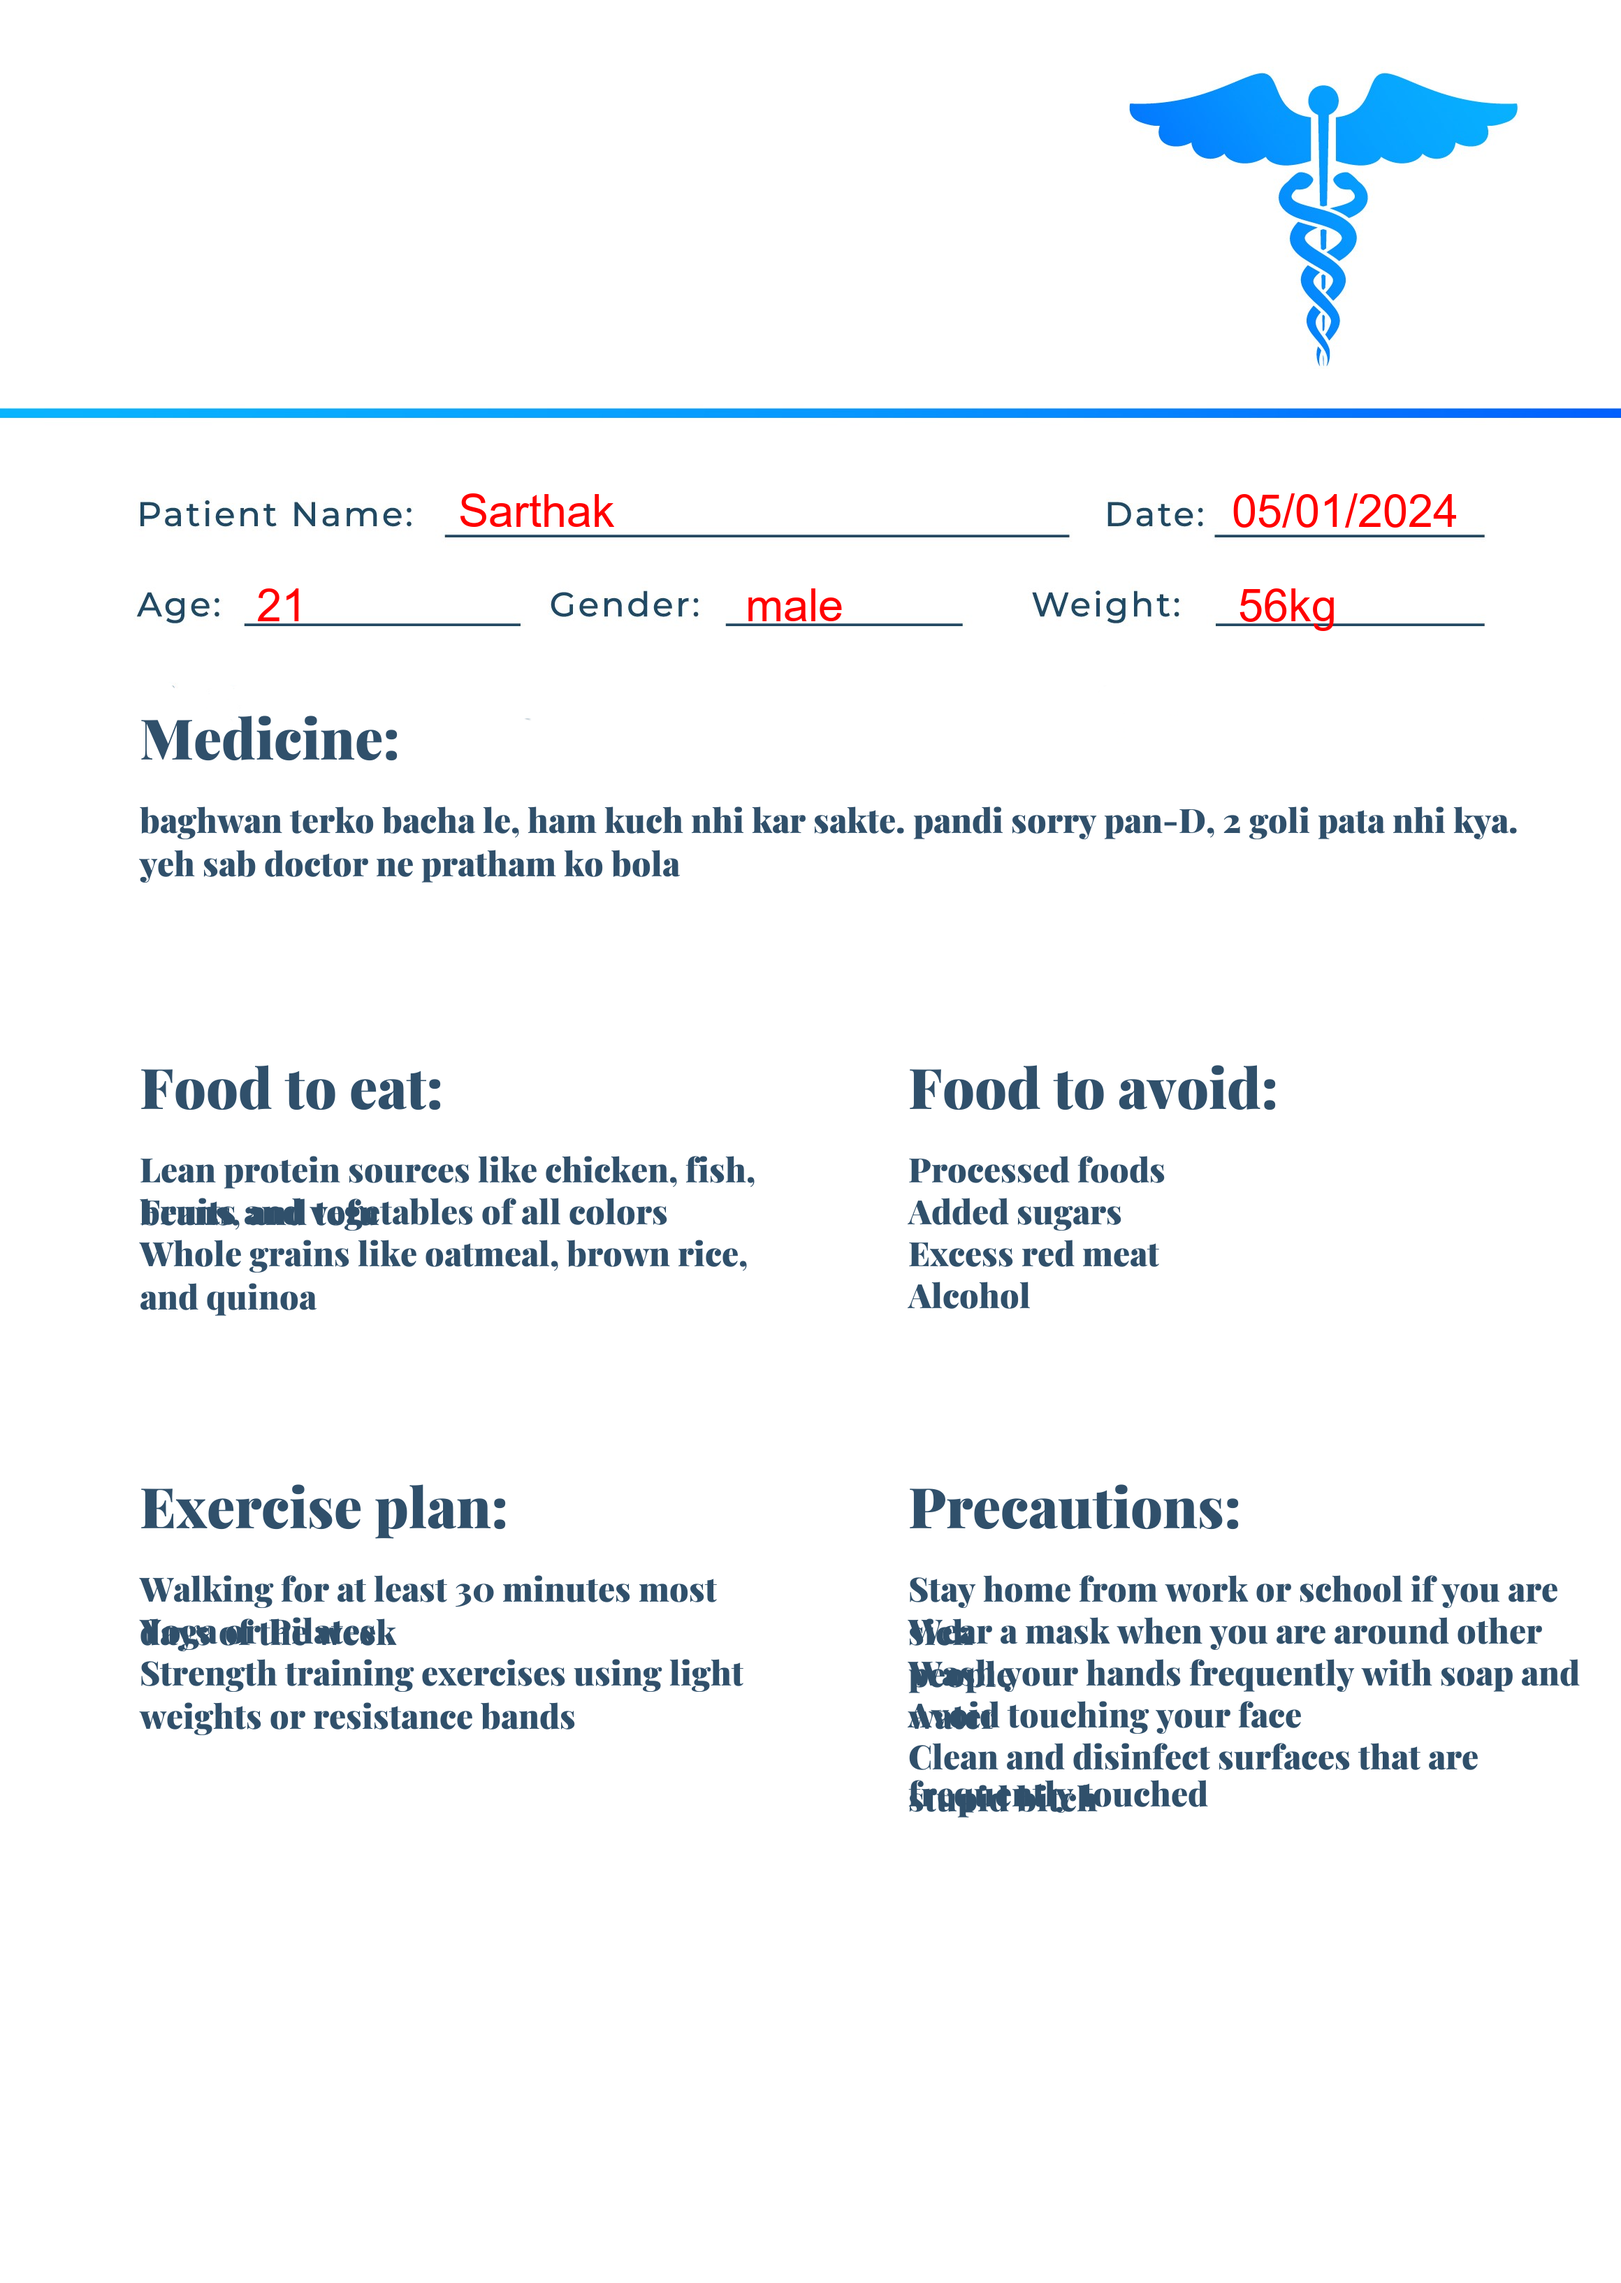
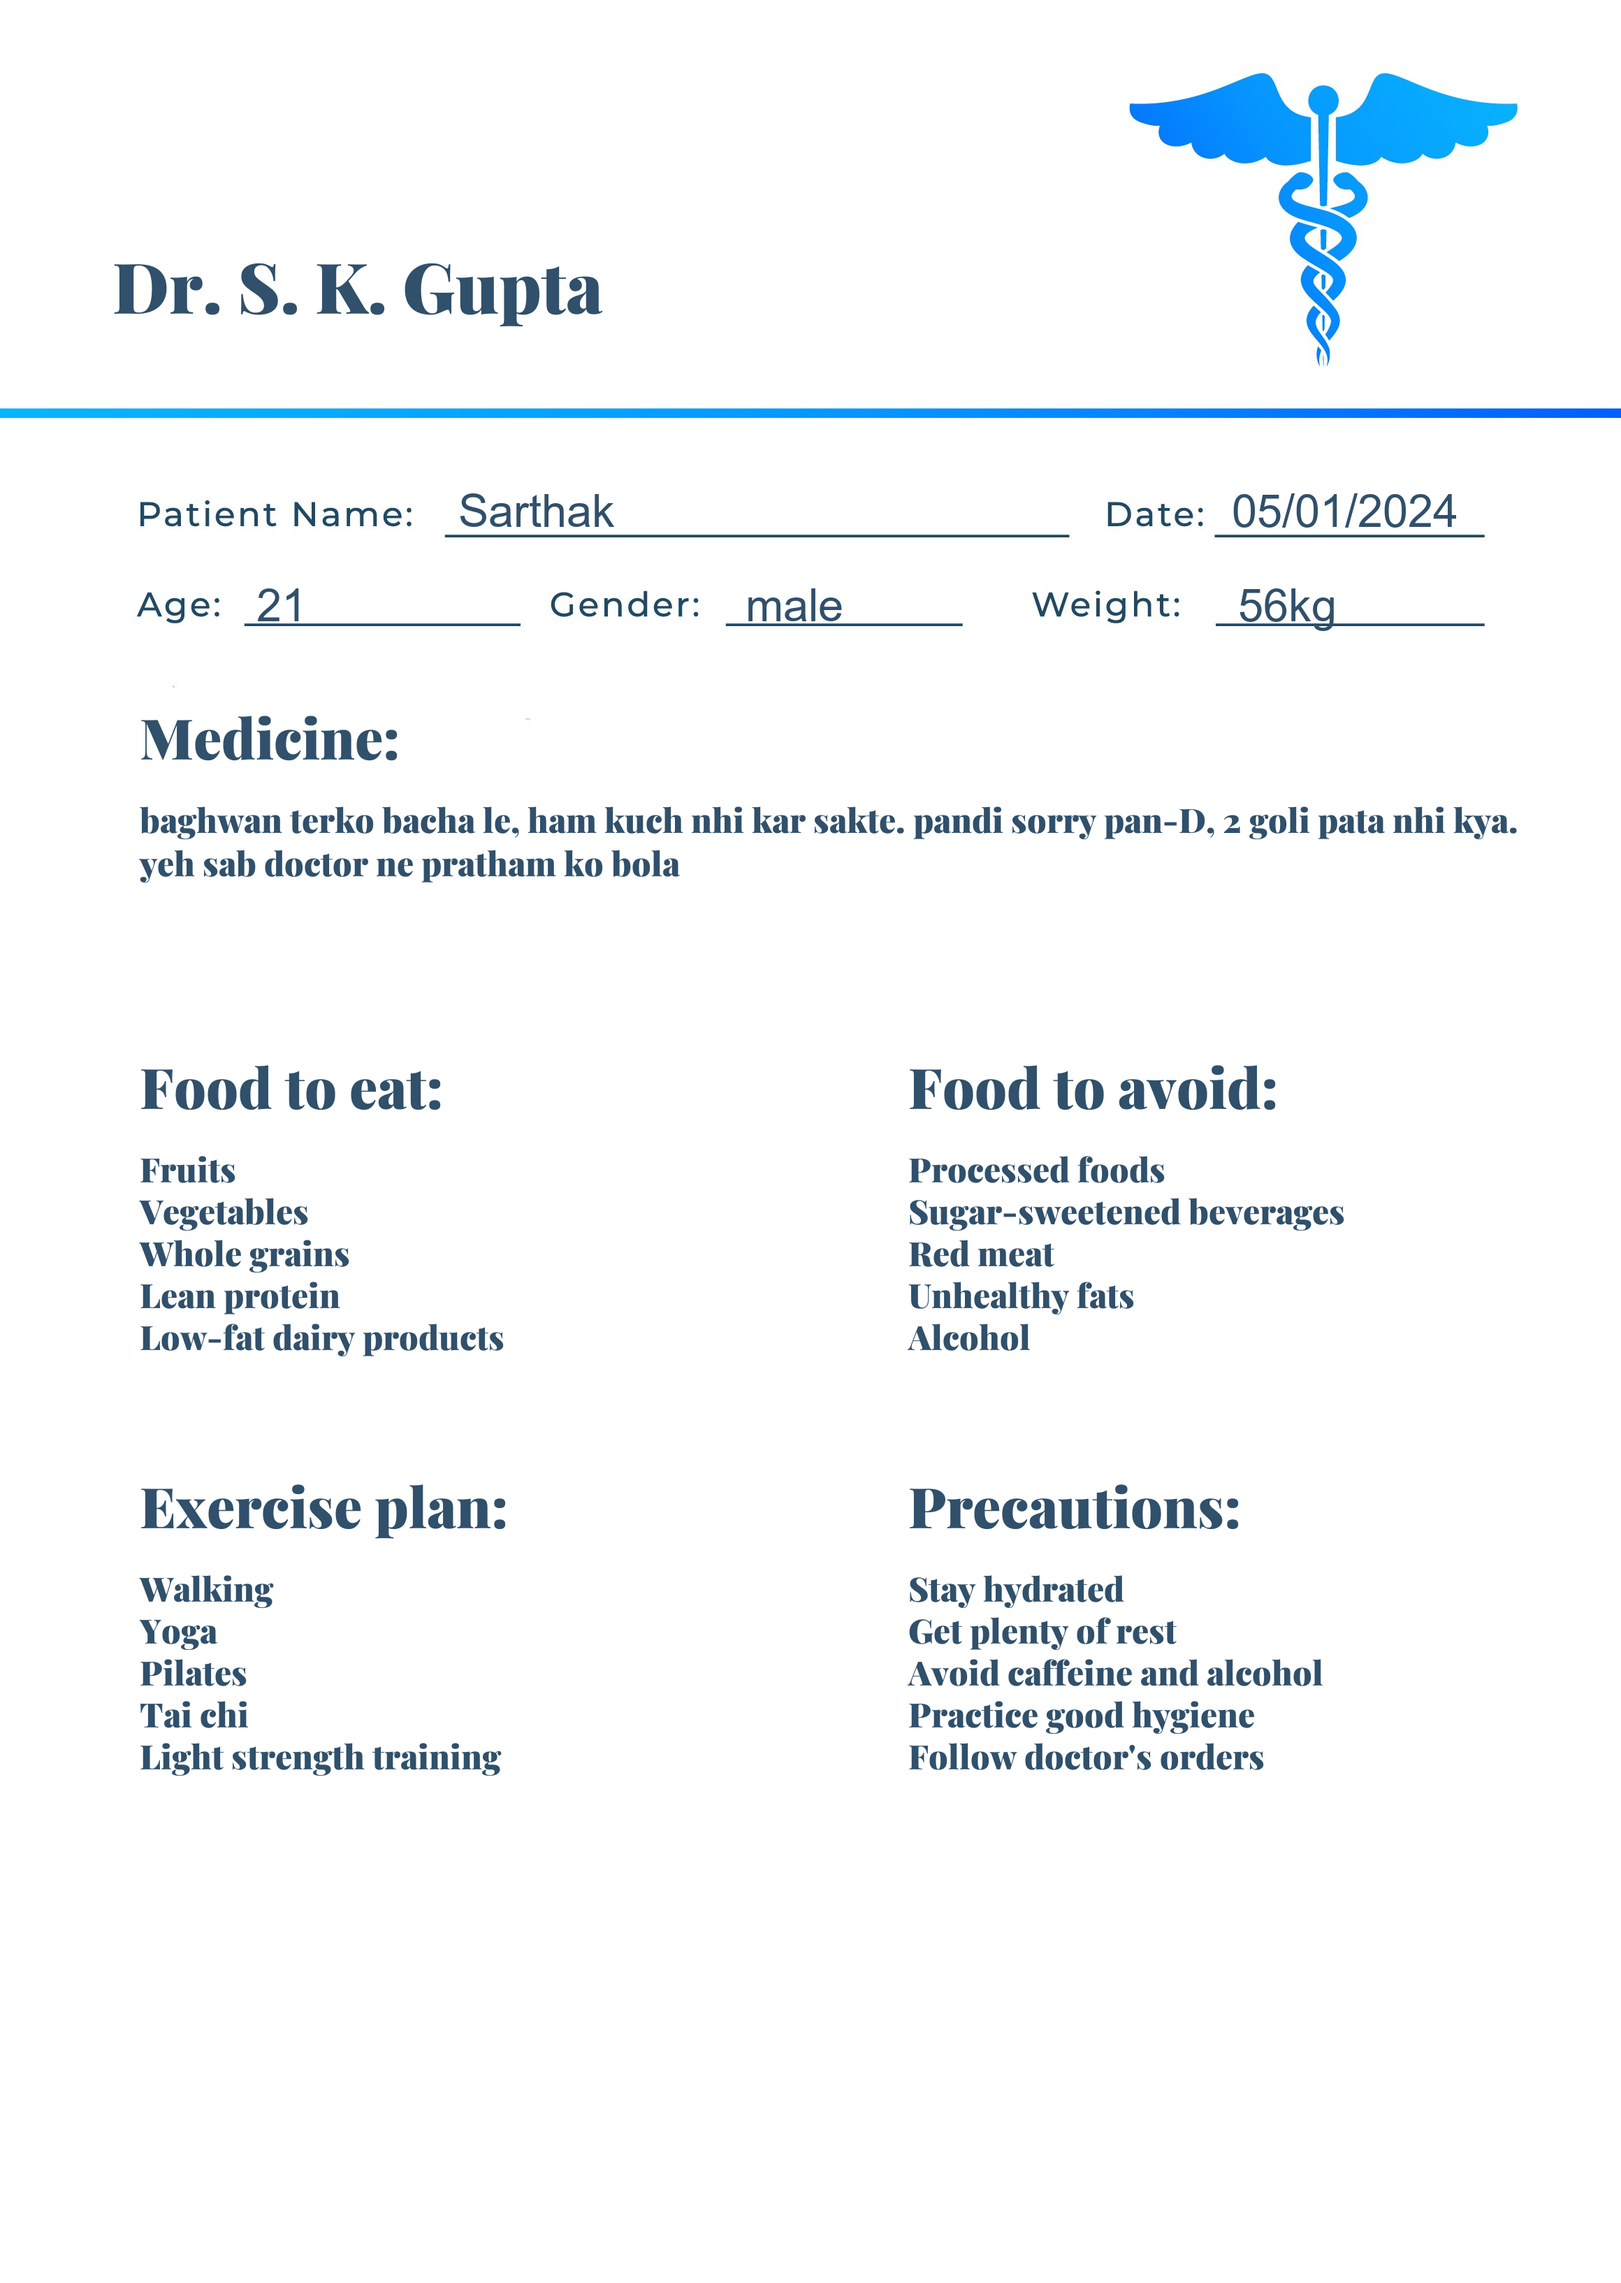
wrapping project

diff --git a/main.py b/main.py
@@ -133,13 +133,17 @@ async def generate_prescription(request:PrescriptionReportRequest):
     img = Image.open('models/assets/template.png')
     I1 = ImageDraw.Draw(img)
     details_font = ImageFont.truetype("arial.ttf", 65)
+    doctor_font = ImageFont.truetype("fonts/PlayfairDisplay-Black.ttf", 100)
 
     name = request.name
     date = datetime.datetime.now().strftime("%d/%m/%Y")
     age = str(request.age)
     gender = request.gender
     weight = request.weight
+
+    doctor_name = request.doctor_name
     medicine = request.medicine
+
     diet_plan = request.diet_plan
     exercise_plan = request.exercise_plan
     precautions = request.precautions
@@ -147,10 +151,8 @@ async def generate_prescription(request:PrescriptionReportRequest):
 
     food_to_eat = diet_plan['food_to_eat']
     food_to_avoid = diet_plan['food_to_avoid']
-    # exercise_plan = exercise_plan['exercise_plan']
-    # precautions = precautions['precautions']
 
-    def draw_text(text, position, font, color=(255, 255, 255), max_width=100):
+    def draw_text(text, position, font, color=(255, 255, 255), max_width=125):
         lines = textwrap.wrap(text, width=max_width)
         y_text = position[1]
         for line in lines:
@@ -158,12 +160,15 @@ async def generate_prescription(request:PrescriptionReportRequest):
             I1.text((position[0], y_text), line, font=font, fill=color)
             y_text += height
 
+    # doctor details
+    I1.text((161, 340), doctor_name, font=doctor_font, fill=(48,80,107))
+
     # patient details
-    I1.text((656, 695), name, font=details_font, fill=(255, 0, 0))
-    I1.text((1763, 695), date, font=details_font, fill=(255, 0, 0))
-    I1.text((367, 830), age, font=details_font, fill=(255, 0, 0))
-    I1.text((1067, 830), gender, font=details_font, fill=(255, 0, 0))
-    I1.text((1772, 830), weight, font=details_font, fill=(255, 0, 0))
+    I1.text((656, 695), name, font=details_font, fill=(48,80,107))
+    I1.text((1763, 695), date, font=details_font, fill=(48,80,107))
+    I1.text((380, 830), age, font=details_font, fill=(48,80,107))
+    I1.text((1067, 830), gender, font=details_font, fill=(48,80,107))
+    I1.text((1772, 830), weight, font=details_font, fill=(48,80,107))
 
     title_font = ImageFont.truetype("fonts/PlayfairDisplay-Black.ttf", 80)
     text_font = ImageFont.truetype("fonts/PlayfairDisplay-Black.ttf", 48)
